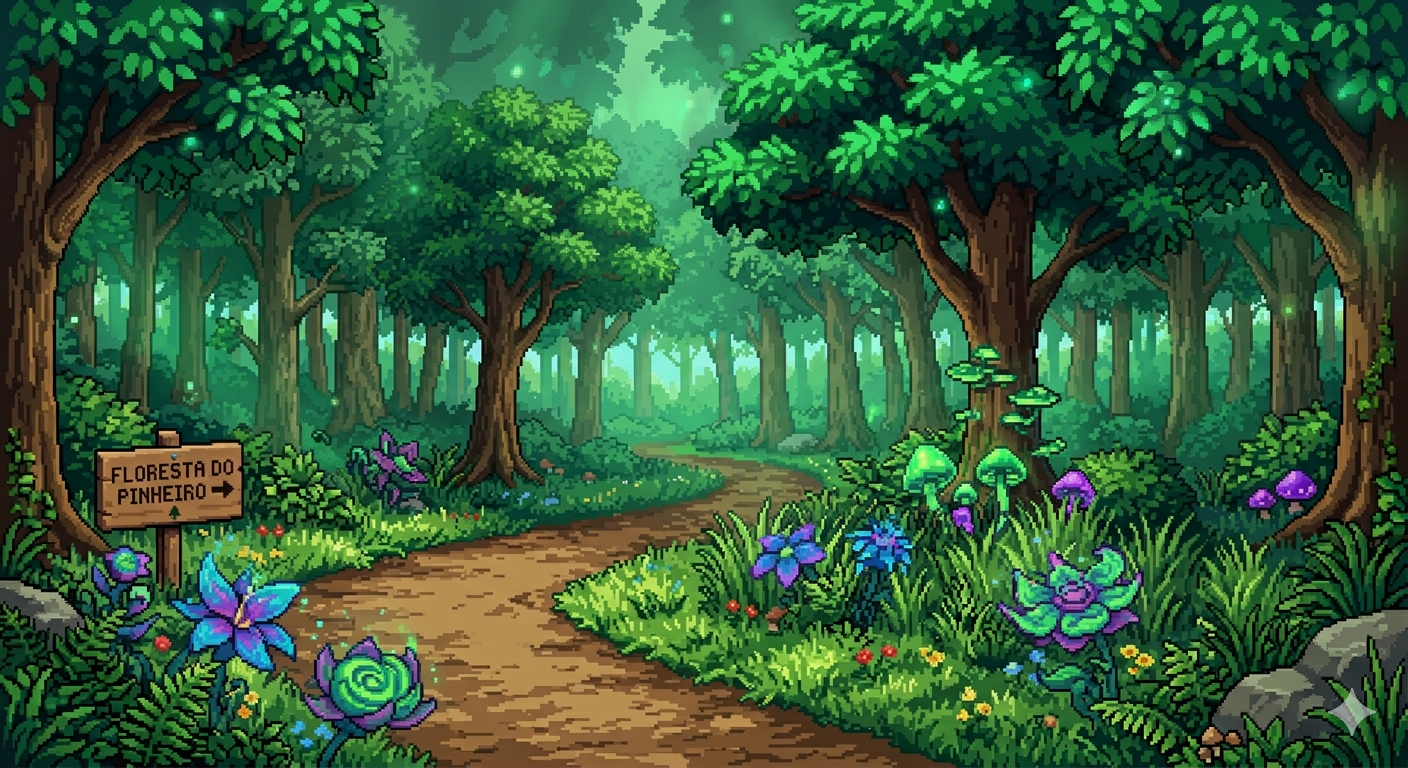
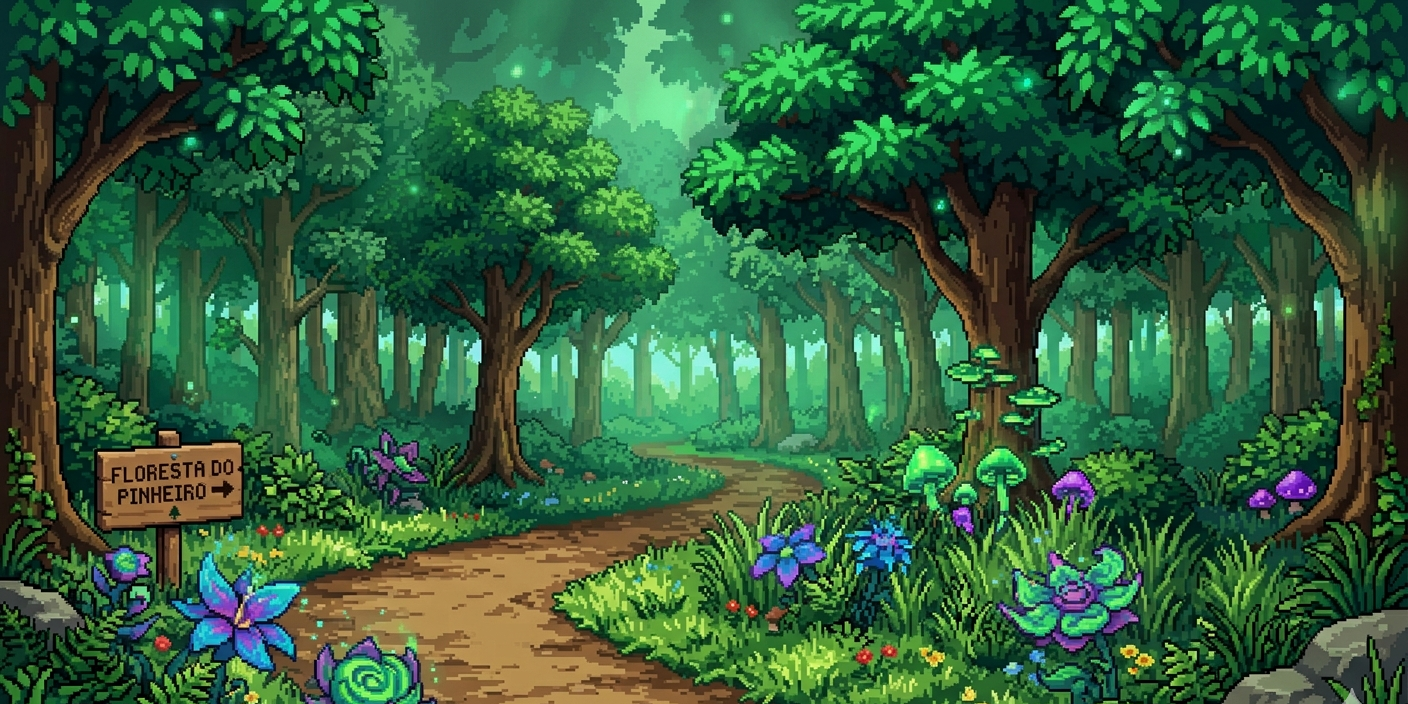
Readme atualizado

diff --git a/README.md b/README.md
@@ -15,7 +15,7 @@
 ### Descrição
 O jogo desenvolvido consiste em uma experiência 2D em tempo real, inspirada em elementos visuais do universo Pokémon, com foco em mecânicas de desvio e captura de itens. O jogador controla um personagem posicionado no lado esquerdo da tela, podendo se movimentar verticalmente (para cima e para baixo) com o objetivo de evitar obstáculos e capturar Pokémons pelo caminho.
 
-Durante a execução do jogo, diversos objetos são gerados dinamicamente no lado direito da tela e se deslocam em direção ao personagem. Esses objetos são classificados em dois tipos principais: obstáculos e itens coletáveis. Os obstáculos, representados por pedras, causam a perda de uma vida ao colidir com o jogador. Já os itens coletáveis são Pokémons, Pikachu, Greninja e Charizard que ao serem capturados somam pontos e recuperam uma vida do jogador.
+Durante a execução do jogo, diversos objetos são gerados dinamicamente no lado direito da tela e se deslocam em direção ao personagem. Esses objetos são classificados em dois tipos principais: obstáculos e itens coletáveis. Os obstáculos, representados por pedras, causam a perda de uma vida ao colidir com o jogador. Já os itens coletáveis são Pokémons que evoluem a cada fase — começando por Pichu, Froakie e Charmander, evoluindo para Pikachu, Frogadier e Charmeleon, e finalmente para Raichu, Greninja e Charizard — que ao serem capturados somam pontos e recuperam uma vida do jogador.
 
 ### Objetivo
 Sobreviver às 3 fases do jogo desviando de pedras e capturando Pokémons, acumulando pontos e mantendo ao menos 1 vida até o final.
@@ -33,12 +33,12 @@ Jogo de corrida 2D com tema Pokémon. O jogador controla o Ash atravessando trê
 | W ou ↑ | Mover para cima |
 | S ou ↓ | Mover para baixo |
 
-### Coletáveis
-| Item | Efeito |
-|------|--------|
-| Pikachu | +10 pontos e +1 vida |
-| Greninja | +10 pontos e +1 vida |
-| Charlizard | +10 pontos e +1 vida |
+### Coletáveis por Fase
+| Fase | Pokémons | Efeito |
+|------|----------|--------|
+| Fase 1 | Pichu, Froakie, Charmander | +10 pontos e +1 vida |
+| Fase 2 | Pikachu, Frogadier, Charmeleon | +10 pontos e +1 vida |
+| Fase 3 | Raichu, Greninja, Charizard | +10 pontos e +1 vida |
 
 ### Obstáculos
 | Item | Efeito |
@@ -60,11 +60,11 @@ Jogo de corrida 2D com tema Pokémon. O jogador controla o Ash atravessando trê
 - Pedra que passa pela tela: **+5 pontos**
 
 ### Progressão de Fases
-| Fase | Pontos necessários | Velocidade | Cenário |
-|------|--------------------|------------|---------|
-| Fase 1 | 0 pts | 2 | Floresta |
-| Fase 2 | 300 pts | 4 | Frente da caverna |
-| Fase 3 | 600 pts | 6 | Interior da caverna |
+| Fase | Pontos necessários | Velocidade | Cenário | Pokémons |
+|------|--------------------|------------|---------|----------|
+| Fase 1 | 0 pts | 4 | Floresta | Pichu, Froakie, Charmander |
+| Fase 2 | 300 pts | 7 | Frente da caverna | Pikachu, Frogadier, Charmeleon |
+| Fase 3 | 600 pts | 9 | Interior da caverna | Raichu, Greninja, Charizard |
 
 ### Condição de Vitória
 Completar a Fase 3 atingindo 1000 pontos com pelo menos 1 vida restante.
